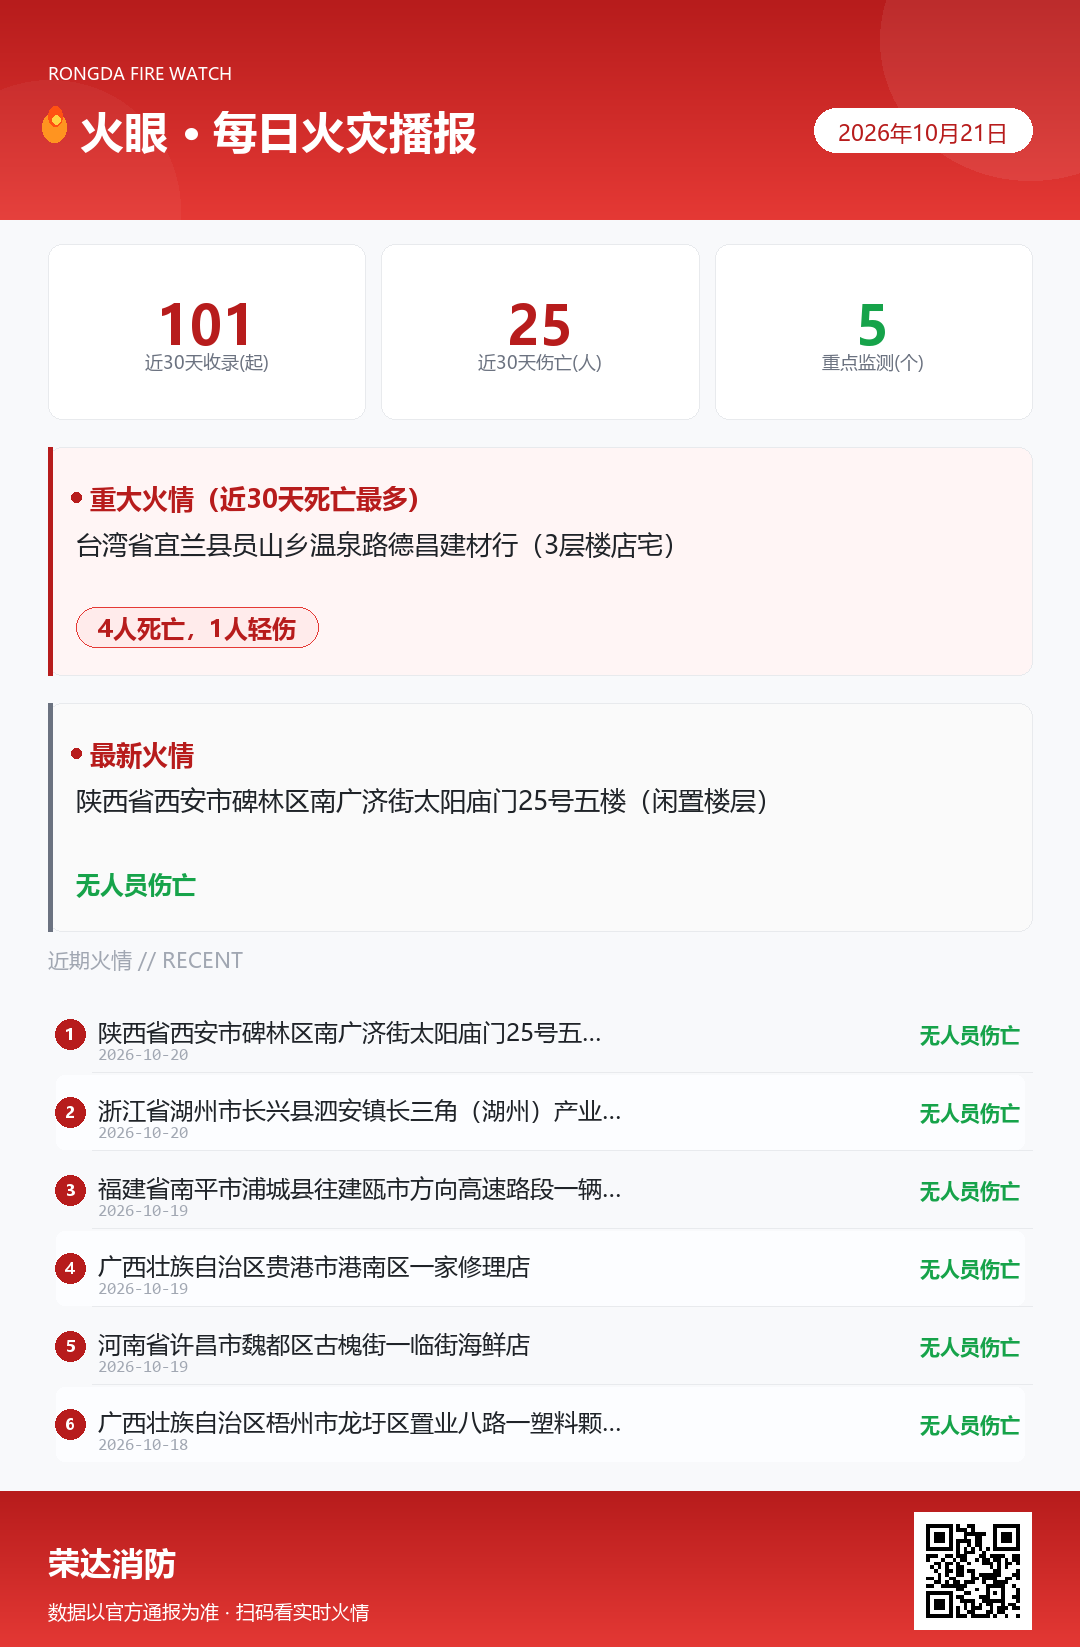
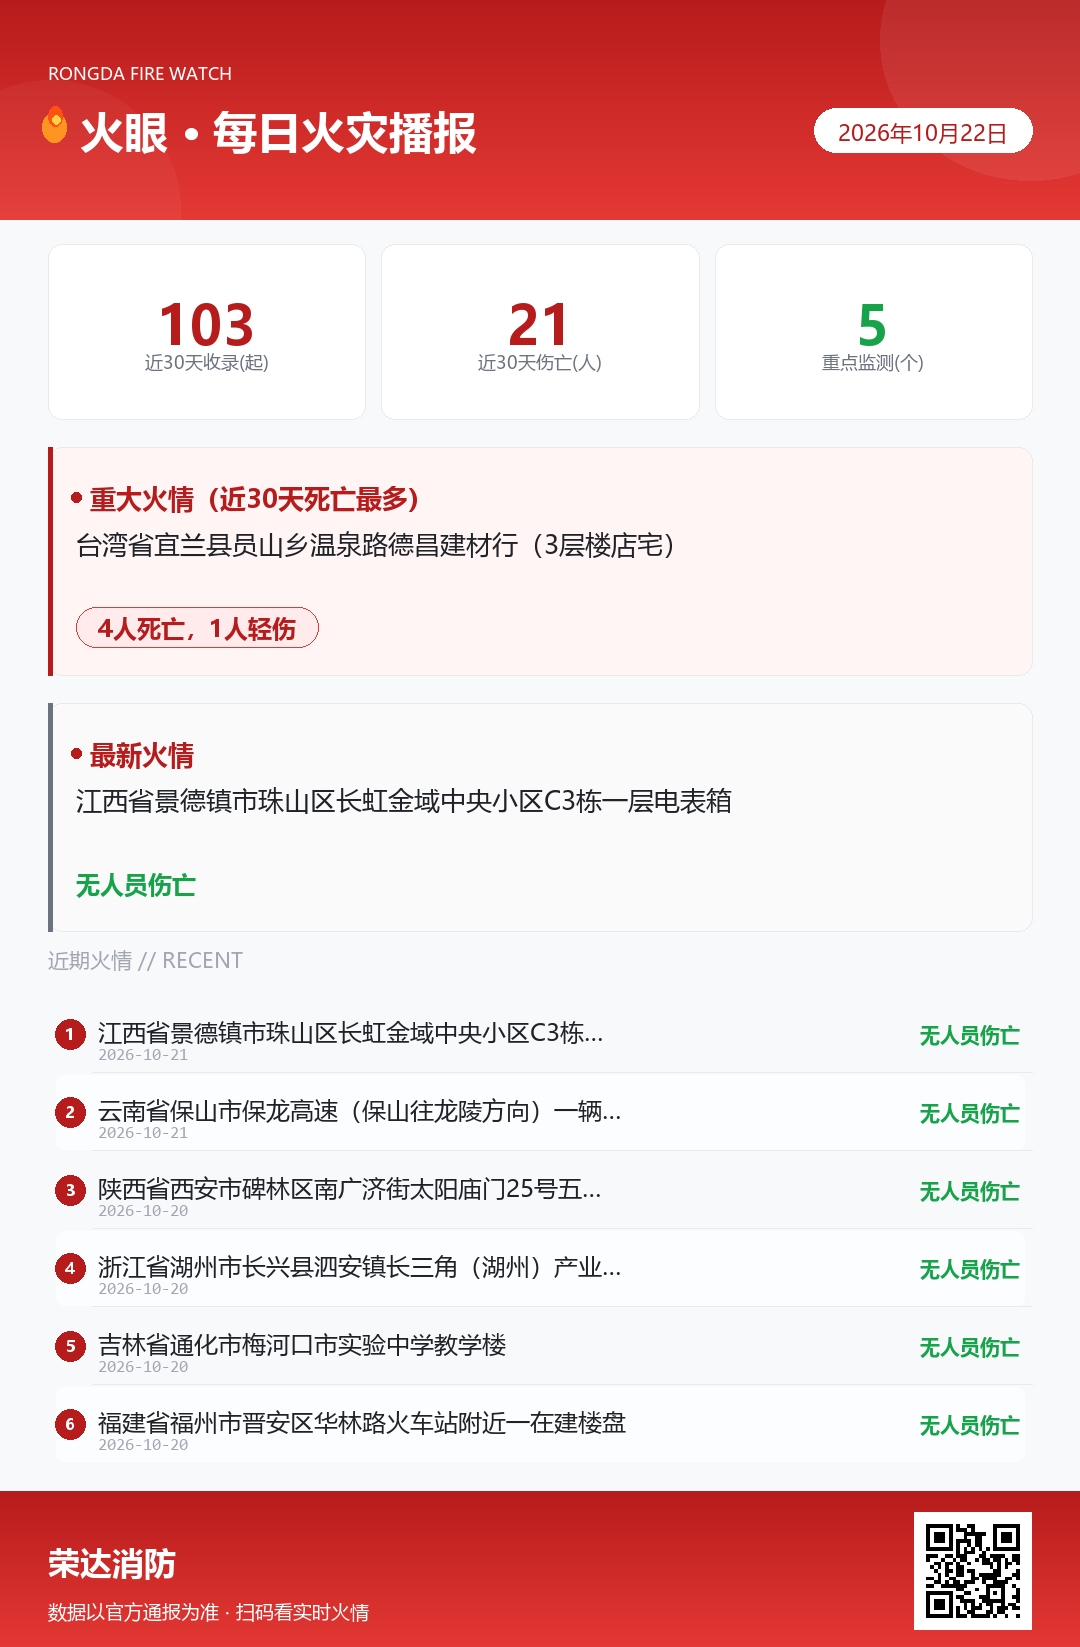
fire-daily-brief 2026-10-22 18:02 roll

diff --git a/index.html b/index.html
@@ -435,8 +435,8 @@
 <!-- ============ DATA（每日自动更新：由自动化脚本重写此对象） ============ -->
 <script id="brief-data" type="application/json">
 {
-  "date": "2026年10月21日",
-  "compileTime": "2026-10-21 09:09",
+  "date": "2026年10月22日",
+  "compileTime": "2026-10-22 18:00",
   "source": "AI 联网检索 · 各地消防救援机构官方通报及权威媒体转载",
   "range": "滚动更新 · 近 30 天",
   "stats": {
@@ -463,13 +463,13 @@
     }
   ],
   "case": {
-    "date": "2026-10-20",
-    "location": "陕西省西安市碑林区南广济街太阳庙门25号五楼（闲置楼层）",
-    "category": "其他",
-    "summary": "10月20日10时05分，西安市消防救援局接群众报警称，碑林区南广济街太阳庙门25号五楼（闲置楼层）着火，因堆放建筑垃圾较多，现场浓烟较大。接警后，西安市消防救援局立即调派辖区消防救援力量赶赴现场处置，10时40分明火已被扑灭，现场无人员伤亡，火灾原因正在调查中。",
+    "date": "2026-10-21",
+    "location": "江西省景德镇市珠山区长虹金域中央小区C3栋一层电表箱",
+    "category": "住宅/民房",
+    "summary": "10月21日01时44分，景德镇市消防救援局指挥中心接到报警，珠山区长虹金域中央小区C3栋一层电表箱发生火灾。接报后，景德镇市消防救援局立即调派救援力量第一时间到场处置，02时26分明火已被控制，05时05分现场处置完毕，无人员伤亡，火灾原因正在调查中。",
     "casualty": "无人员伤亡",
-    "cause": "火灾原因正在调查中（现场为闲置楼层，堆放建筑垃圾较多）",
-    "src": "西安市消防救援局火情通报（2026-10-20）/腾讯新闻转载"
+    "cause": "火灾原因正在调查中",
+    "src": "景德镇市消防救援局警情通报（2026-10-21）/腾讯新闻、极目新闻转载"
   },
   "tips": [
     "住宅近30天火情占比超三成，多在老旧插排长期通电、手机充电器不拔、私拉乱接短路：泉州9·27民房手机充电器长年通电打火、泉州9·26沿街超市插排串联过载短路。老旧插排和永远不拔的充电器该换就换，睡前出门拉总闸，明线私拉一律整改。",
@@ -489,6 +489,24 @@
   ],
   "history": [
     {
+      "date": "2026-10-21",
+      "location": "江西省景德镇市珠山区长虹金域中央小区C3栋一层电表箱",
+      "category": "住宅/民房",
+      "summary": "10月21日01时44分，景德镇市消防救援局指挥中心接到报警，珠山区长虹金域中央小区C3栋一层电表箱发生火灾。接报后，景德镇市消防救援局立即调派救援力量第一时间到场处置，02时26分明火已被控制，05时05分现场处置完毕，无人员伤亡，火灾原因正在调查中。",
+      "casualty": "无人员伤亡",
+      "cause": "火灾原因正在调查中",
+      "src": "景德镇市消防救援局警情通报（2026-10-21）/腾讯新闻、极目新闻转载"
+    },
+    {
+      "date": "2026-10-21",
+      "location": "云南省保山市保龙高速（保山往龙陵方向）一辆行驶中货车",
+      "category": "交通枢纽",
+      "summary": "10月21日，云南保龙高速保山往龙陵方向，一辆装载百货的货车因轮毂温度过高引发轮胎自燃，篷布、货物同时起火，现场浓烟滚滚。相关部门工作人员迅速到场，为避免长时间拥堵，将起火货车快速吊上半挂车、带火紧急脱离高速进行处置。据参与救援者介绍，该车没有保险、损失很重，但没有人受伤。目前事件已完全处置完毕，道路可正常通行。",
+      "casualty": "无人员伤亡",
+      "cause": "轮毂温度过高引发轮胎自燃",
+      "src": "云南网（2026-10-22）/大象新闻（光明网转载，2026-10-21）"
+    },
+    {
       "date": "2026-10-20",
       "location": "陕西省西安市碑林区南广济街太阳庙门25号五楼（闲置楼层）",
       "category": "其他",
@@ -505,6 +523,24 @@
       "casualty": "无人员伤亡",
       "cause": "起火原因正在调查中",
       "src": "长三角（湖州）产业合作区管理委员会情况通报（2026-10-20）/澎湃新闻"
+    },
+    {
+      "date": "2026-10-20",
+      "location": "吉林省通化市梅河口市实验中学教学楼",
+      "category": "学校/教育机构",
+      "summary": "10月20日，吉林通化梅河口市实验中学教学楼起火，有浓烟从窗口冒出，多辆消防车到场处置。据学校回应，系电暖器起火，火已被及时扑灭，未造成学生和老师伤亡。学校工作人员表示，起火时学生及大部分老师尚未入校，烟雾散去后学校恢复正常上课。",
+      "casualty": "无人员伤亡",
+      "cause": "电暖器起火（据学校回应）",
+      "src": "中国消防/我们视频（新京报）（2026-10-20）"
+    },
+    {
+      "date": "2026-10-20",
+      "location": "福建省福州市晋安区华林路火车站附近一在建楼盘",
+      "category": "其他",
+      "summary": "10月20日上午10时至11时许，福州市晋安区华林路火车站附近一在建楼盘一栋楼二层突发火情，现场浓烟滚滚，有消防车赶来救援。当日下午记者赴现场走访时，着火区域火势已被扑灭，现场无明显烧灼痕迹，周边秩序已恢复正常。据周边目击居民介绍，疑似样板房外围的施工材料起火；现场工作人员证实确有火情发生，具体起火原因及财产损失情况仍待相关部门进一步调查。",
+      "casualty": "报道未提及人员伤亡",
+      "cause": "疑似样板房外围施工材料起火，具体原因待相关部门进一步调查",
+      "src": "海峡网（2026-10-21，记者实地走访）"
     },
     {
       "date": "2026-10-19",
